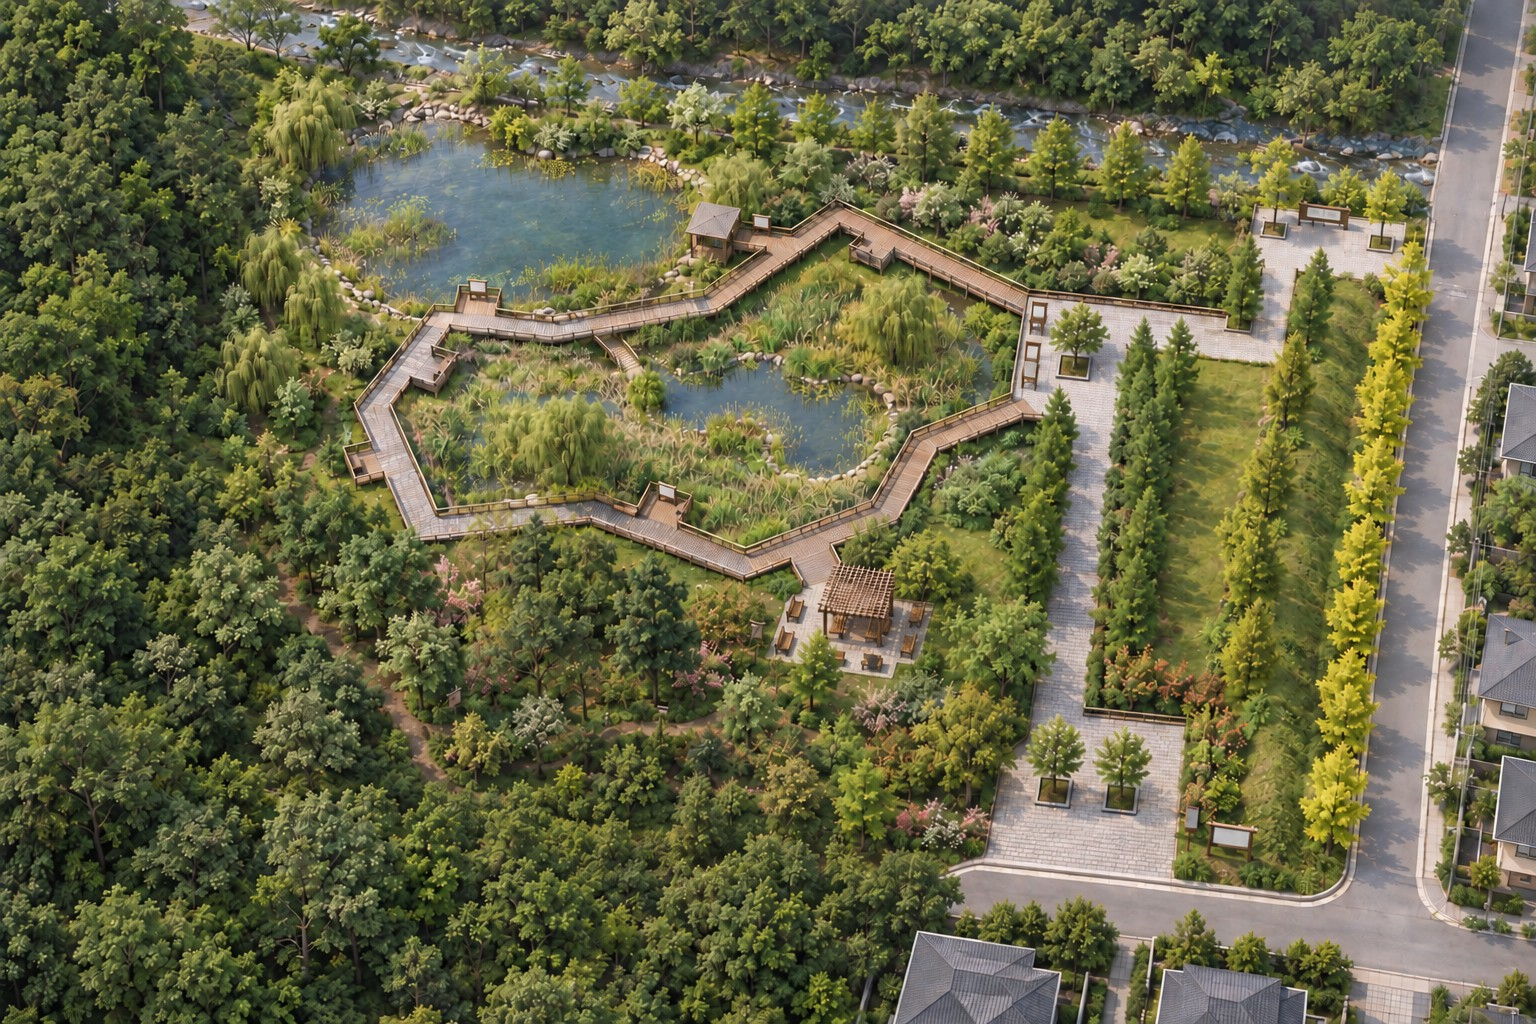
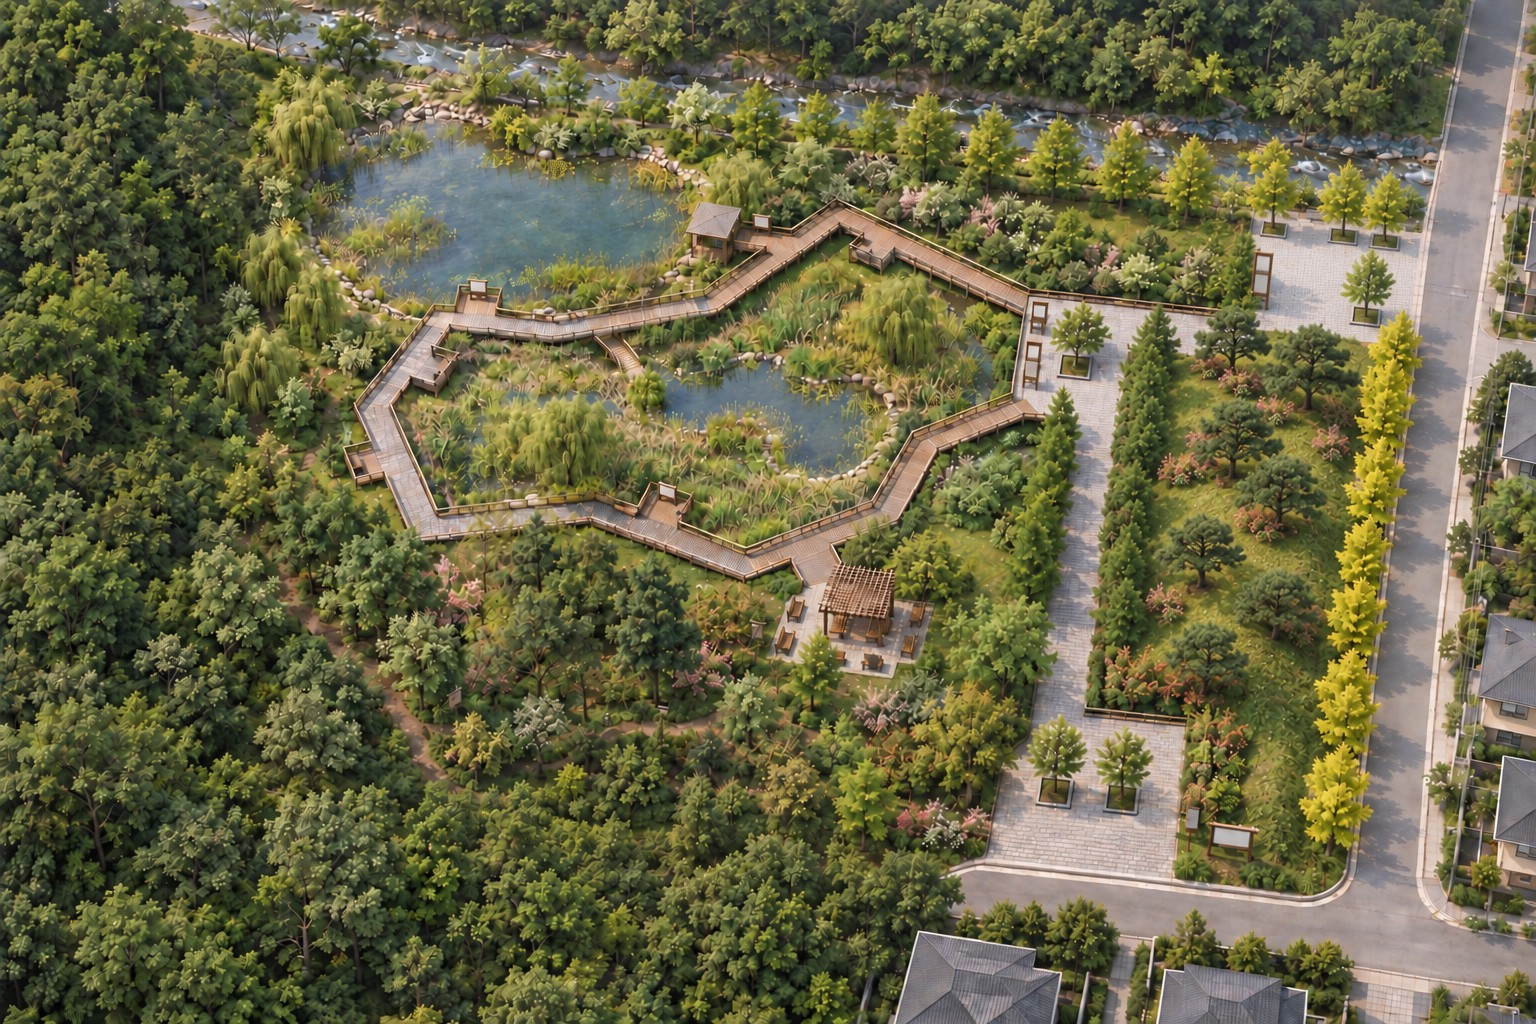
401 조감도: 북동 진입광장과 동쪽 마운딩을 도면대로 고친 4회차로 교체
동선 동쪽 잔디에 메타세쿼이아 열이 하나 더 있었고 안내판·도로 접속이 달랐다
(사용자 지적). 배식설계도대로 마운딩 + 소나무 7 + 철쭉, 안내판 서쪽 변,
광장이 동측 도로로 바로 열리게 했다.

diff --git a/_ls_drawing_refs/401_조감도/content.md b/_ls_drawing_refs/401_조감도/content.md
@@ -1,4 +1,4 @@
-'성운' 탭의 **답안지 II · 기본설계도**와 **답안지 III · 배식설계도**, 문제지 조건을 GPT 이미지 모델(gpt-image-2.5-sunburst)에 주고 만든 **입체 조감도**입니다(2026년 9월 18일, 3회차).
+'성운' 탭의 **답안지 II · 기본설계도**와 **답안지 III · 배식설계도**, 문제지 조건을 GPT 이미지 모델(gpt-image-2.5-sunburst)에 주고 만든 **입체 조감도**입니다(2026년 9월 18일, 4회차).
 남동쪽 상공에서 북서쪽을 내려다본 시점이라 **도면의 북쪽이 그림의 위**입니다 — 실개천이 위, 기존수림이 왼쪽, 6m 도로와 주택가가 오른쪽·아래입니다.
 
 ## 만든 방법
@@ -6,10 +6,11 @@
 1. 도면 2장(기본설계도 · 배식설계도, 표제란은 잘라냄)을 참고 그림으로 주고 도면을 글로 풀어 쓴 프롬프트로 그렸습니다(1회차). 배치는 도면대로 나왔고, 남측 도로가 부지 전체 폭으로 그려진 것과 휴게공간 평의자·모임광장 안내판이 모자란 것만 틀렸습니다
 2. **도면 + 1회차 그림**을 함께 주고 그 셋만 고치게 했습니다(2회차) — 남측 도로를 동쪽 절반으로 줄이고(서쪽은 야산), 평의자 8 · 휴지통 1, 안내판을 더했습니다
 3. **도면 + 2회차 그림**을 주고 모임광장 서쪽 안내판을 3개로, 관찰데크를 5개로 맞추게 했습니다(3회차)
+4. **북동 진입광장**을 도면과 대조하니(사용자 지적) 동선 동쪽 잔디에 메타세쿼이아 열이 하나 더 들어가 있고, 종합안내판이 북쪽 변에, 광장과 동측 도로 사이에 나무가 끼어 있었습니다. 배식설계도대로 그 잔디를 **마운딩 + 소나무 7주 + 철쭉**으로, 안내판을 서쪽 변으로, 광장이 도로로 바로 열리게 고쳤습니다(4회차)
 
 > 회차마다 도면을 첫 참고 그림으로 다시 주고 "나머지는 그대로"라고 못박습니다. 마스크 부분 수정이나 그림을 손으로 자르고 돌리는 일은 하지 않습니다(주차장 설계 444 조감도 탭 참조).
 
-## 도면과 대조 (3회차)
+## 도면과 대조 (4회차)
 
 | 도면(성운 답안) | 결과 |
 | --- | --- |
@@ -20,20 +21,20 @@
 | 산림지구 — 남서쪽, 기존수림과 이어지는 다층 숲, 관찰로, 수목표찰 10 | ✓ (표찰은 작은 말뚝으로) |
 | 휴게공간 — 산림지구 남동 가장자리, 파고라 4×4 · 평의자 8 · 휴지통 1 | ✓ (2회차에 고침) |
 | 모임광장 — 습지 동쪽, 수목보호대 1, 서쪽 안내판 3 | ✓ (3회차에 고침) |
-| 진입광장 2 — 북동 모서리 · 남쪽(남동 근처), 종합안내판 1 · 수목보호대 2씩, 소형고압블록 | ✓ |
-| 두 진입광장을 잇는 남북 동선, 양쪽 메타세쿼이아 열식, 도로변 은행나무 열식, 마운딩 잔디 | ✓ |
+| 진입광장 2 — 북동 모서리 · 남쪽(남동 근처), 종합안내판 1 · 수목보호대 2씩, 소형고압블록 | ✓ (북동 광장은 4회차에 고침 — 도로로 바로 열림, 안내판 서쪽 변) |
+| 두 진입광장을 잇는 남북 동선, 서쪽 메타세쿼이아 열식, 동쪽 마운딩에 소나무 7 · 철쭉, 도로변 은행나무 열식 | ✓ (4회차에 고침) |
 | 글자 없음 | ✓ |
 
 비용은 3장 약 $0.12 입니다.
 
-## 프롬프트 — 마지막 회차(3회차, 참고: 기본설계도 + 2회차 그림)
+## 프롬프트 — 마지막 회차(4회차, 참고: 기본설계도 + 3회차 그림)
 
-앞 회차 그림을 함께 주고 "그것만 고치고 나머지는 그대로"라고 한 것입니다. 1~2회차 프롬프트는 뺐습니다.
+앞 회차 그림을 함께 주고 "그것만 고치고 나머지는 그대로"라고 한 것입니다. 1~3회차 프롬프트는 뺐습니다.
 
-    The FIRST attached image is the site plan of a small ecological park (north is up). The SECOND attached image is a 3D rendering of it that is correct in layout and camera. Reproduce the second image EXACTLY — same camera, pond, wetland, boardwalk loop, forest, pergola plaza, entrance plazas, paths, trees, stream, roads, houses, lighting — and change ONLY this:
+    The FIRST attached image is the site plan of a small ecological park (north is up). The SECOND attached image is a 3D rendering of it that is correct in layout and camera. Reproduce the second image EXACTLY — same camera, pond, wetland, boardwalk loop, forest, pergola plaza, gathering plaza, south entrance plaza, stream, roads, houses, lighting — and change ONLY the NORTH-EAST corner and the lawn south of it, to match the plan:
 
-    GATHERING PLAZA (the small square paved plaza east of the wetland, with one shade tree in a square tree grate, where the boardwalk meets the entrance path): along its WEST edge place EXACTLY 3 small blank information boards on posts, in a straight north-south row, evenly spaced. Currently there are 2.
+    1. NORTH-EAST ENTRANCE PLAZA (block-paved square at the north-east corner): its EAST edge opens DIRECTLY onto the east road with a dropped curb — no trees, hedge or planting strip between the plaza and the road; people walk straight in from the road. Its 2 square tree grates (each with one zelkova) stay, one north and one south of the plaza's centre. The large blank signboard stands on the plaza's WEST edge (not on the north edge). A row of ginkgo trees runs along the north edge of the site above the plaza.
 
-    Also make sure the wetland boardwalk loop has EXACTLY 5 outward observation decks (small square timber platforms with rails), each with one small blank board — no more, no fewer.
+    2. LAWN between the north-south block path and the east road (south of the entrance plaza): remove the line of tall narrow conifers standing in the MIDDLE of this lawn. Instead the lawn has a gentle grassy MOUND (a low rounded hump) planted with 7 spreading PINE trees (round, dark-green, irregular crowns — not columnar) and irregular masses of low azalea shrubs. The line of ginkgo trees along the road edge stays. The single line of metasequoias along the WEST side of the north-south path (between the path and the wetland boardwalk) stays.
 
     Nothing else changes. Photorealistic landscape-architecture visualization. Do NOT write any text, letters, numbers, labels or signs.
